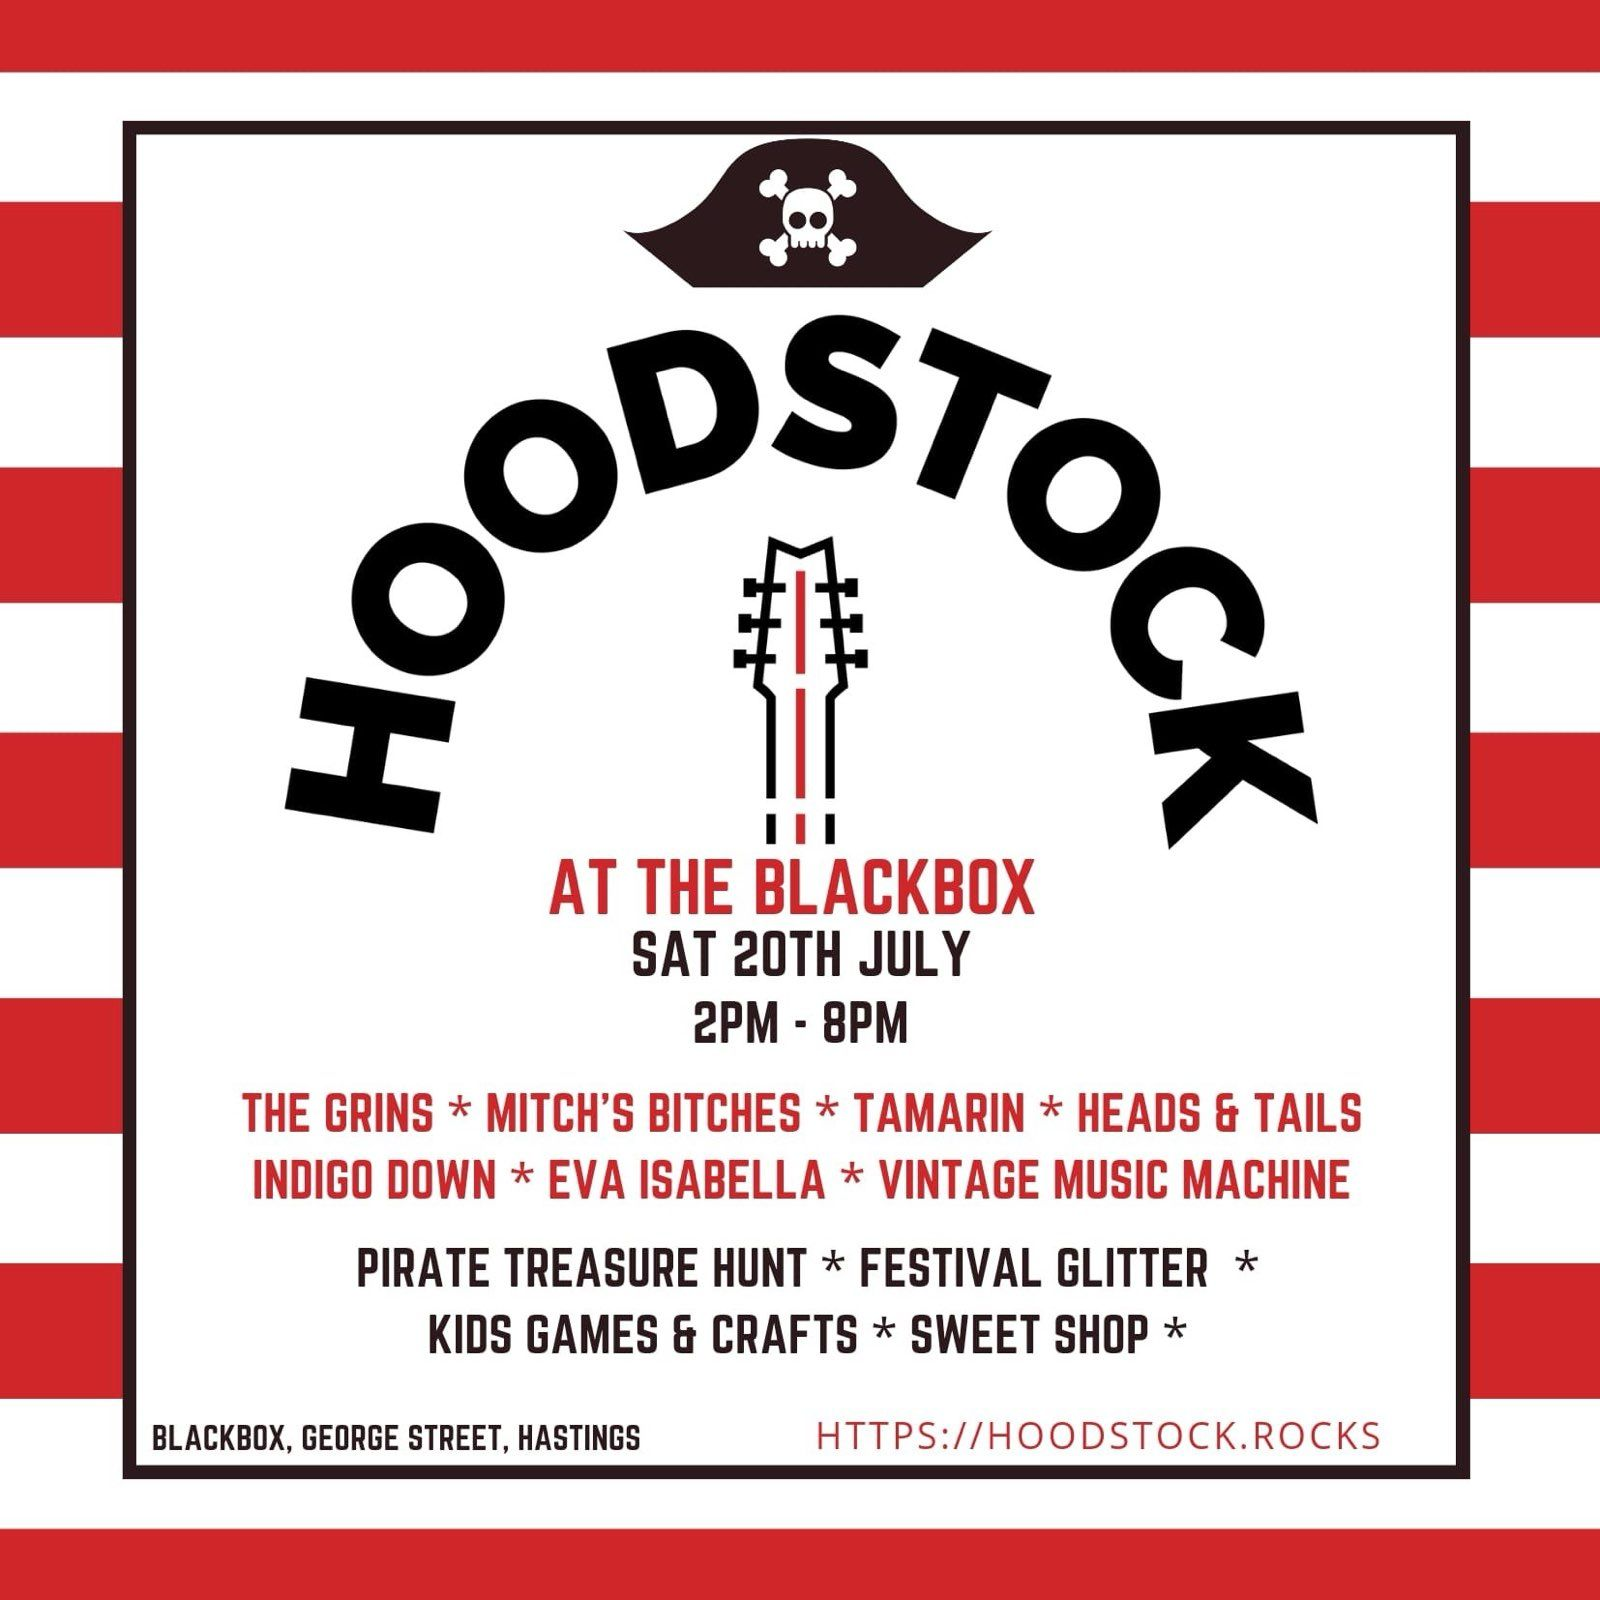
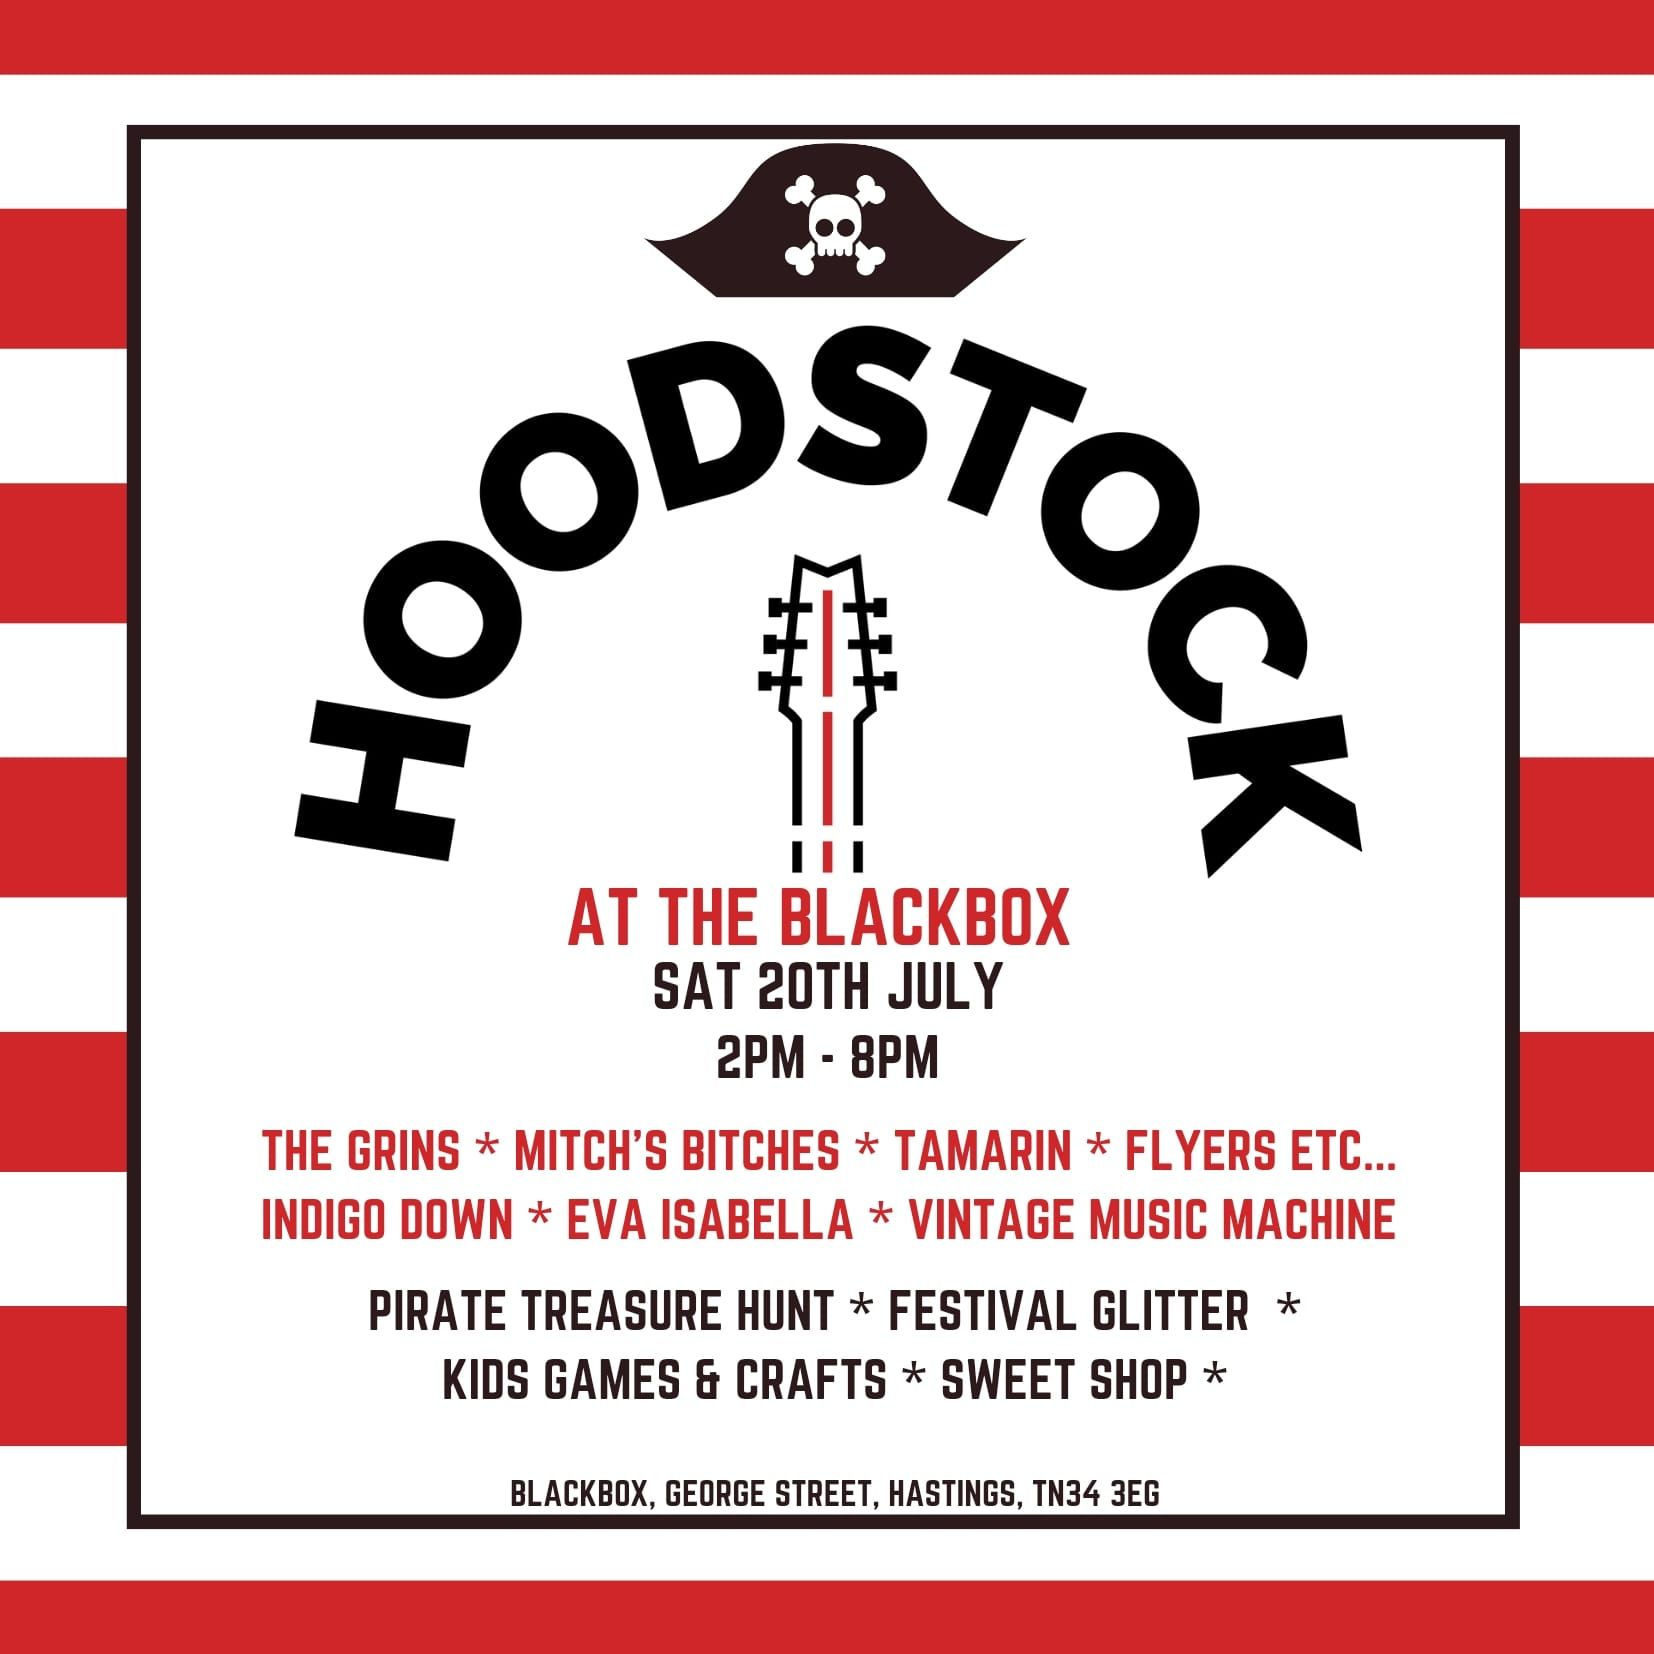
add social meta tags, update flyer

Changed region(s): [[0.1562, 0.6562, 0.875, 0.7188], [0.0938, 0.875, 0.875, 0.9375]]

diff --git a/_site/bands/index.html b/_site/bands/index.html
@@ -12,6 +12,21 @@
 	<link rel="apple-touch-icon" sizes="180x180" href="/public/images/favicon/apple-touch-icon.png">
 	<link rel="icon" type="image/png" sizes="32x32" href="/public/images/favicon/favicon-32x32.png">
 	<link rel="icon" type="image/png" sizes="16x16" href="/public/images/favicon/favicon-16x16.png">
+
+	<!-- Twitter meta tags -->
+	<meta name="twitter:card" content="summary_large_image">
+	<meta name="twitter:title" content="HOODSTOCK 2024">
+	<meta name="twitter:description"
+		content="HOODSTOCK at the BlackBox Hastings, July 20th 2024">
+	<meta name="twitter:image" content="https://hoodstock.rocks/public/images/2024flyer.jpeg">
+
+	<!-- Facebook meta tags -->
+	<meta property="og:url" content="https://hoodstock.rocks/">
+	<meta property="og:type" content="website">
+	<meta property="og:title" content="HOODSTOCK 2024">
+	<meta property="og:description"
+		content="HOODSTOCK at the BlackBox Hastings, July 20th 2024">
+	<meta property="og:image" content="https://hoodstock.rocks/public/images/2024flyer.jpeg">
 </head>
 
 <body>

diff --git a/_site/food/index.html b/_site/food/index.html
@@ -12,6 +12,21 @@
 	<link rel="apple-touch-icon" sizes="180x180" href="/public/images/favicon/apple-touch-icon.png">
 	<link rel="icon" type="image/png" sizes="32x32" href="/public/images/favicon/favicon-32x32.png">
 	<link rel="icon" type="image/png" sizes="16x16" href="/public/images/favicon/favicon-16x16.png">
+
+	<!-- Twitter meta tags -->
+	<meta name="twitter:card" content="summary_large_image">
+	<meta name="twitter:title" content="HOODSTOCK 2024">
+	<meta name="twitter:description"
+		content="HOODSTOCK at the BlackBox Hastings, July 20th 2024">
+	<meta name="twitter:image" content="https://hoodstock.rocks/public/images/2024flyer.jpeg">
+
+	<!-- Facebook meta tags -->
+	<meta property="og:url" content="https://hoodstock.rocks/">
+	<meta property="og:type" content="website">
+	<meta property="og:title" content="HOODSTOCK 2024">
+	<meta property="og:description"
+		content="HOODSTOCK at the BlackBox Hastings, July 20th 2024">
+	<meta property="og:image" content="https://hoodstock.rocks/public/images/2024flyer.jpeg">
 </head>
 
 <body>

diff --git a/_site/index.html b/_site/index.html
@@ -12,6 +12,21 @@
 	<link rel="apple-touch-icon" sizes="180x180" href="/public/images/favicon/apple-touch-icon.png">
 	<link rel="icon" type="image/png" sizes="32x32" href="/public/images/favicon/favicon-32x32.png">
 	<link rel="icon" type="image/png" sizes="16x16" href="/public/images/favicon/favicon-16x16.png">
+
+	<!-- Twitter meta tags -->
+	<meta name="twitter:card" content="summary_large_image">
+	<meta name="twitter:title" content="HOODSTOCK 2024">
+	<meta name="twitter:description"
+		content="HOODSTOCK at the BlackBox Hastings, July 20th 2024">
+	<meta name="twitter:image" content="https://hoodstock.rocks/public/images/2024flyer.jpeg">
+
+	<!-- Facebook meta tags -->
+	<meta property="og:url" content="https://hoodstock.rocks/">
+	<meta property="og:type" content="website">
+	<meta property="og:title" content="HOODSTOCK 2024">
+	<meta property="og:description"
+		content="HOODSTOCK at the BlackBox Hastings, July 20th 2024">
+	<meta property="og:image" content="https://hoodstock.rocks/public/images/2024flyer.jpeg">
 </head>
 
 <body>

diff --git a/_site/info/index.html b/_site/info/index.html
@@ -12,6 +12,21 @@
 	<link rel="apple-touch-icon" sizes="180x180" href="/public/images/favicon/apple-touch-icon.png">
 	<link rel="icon" type="image/png" sizes="32x32" href="/public/images/favicon/favicon-32x32.png">
 	<link rel="icon" type="image/png" sizes="16x16" href="/public/images/favicon/favicon-16x16.png">
+
+	<!-- Twitter meta tags -->
+	<meta name="twitter:card" content="summary_large_image">
+	<meta name="twitter:title" content="HOODSTOCK 2024">
+	<meta name="twitter:description"
+		content="HOODSTOCK at the BlackBox Hastings, July 20th 2024">
+	<meta name="twitter:image" content="https://hoodstock.rocks/public/images/2024flyer.jpeg">
+
+	<!-- Facebook meta tags -->
+	<meta property="og:url" content="https://hoodstock.rocks/">
+	<meta property="og:type" content="website">
+	<meta property="og:title" content="HOODSTOCK 2024">
+	<meta property="og:description"
+		content="HOODSTOCK at the BlackBox Hastings, July 20th 2024">
+	<meta property="og:image" content="https://hoodstock.rocks/public/images/2024flyer.jpeg">
 </head>
 
 <body>

diff --git a/_site/kids/index.html b/_site/kids/index.html
@@ -12,6 +12,21 @@
 	<link rel="apple-touch-icon" sizes="180x180" href="/public/images/favicon/apple-touch-icon.png">
 	<link rel="icon" type="image/png" sizes="32x32" href="/public/images/favicon/favicon-32x32.png">
 	<link rel="icon" type="image/png" sizes="16x16" href="/public/images/favicon/favicon-16x16.png">
+
+	<!-- Twitter meta tags -->
+	<meta name="twitter:card" content="summary_large_image">
+	<meta name="twitter:title" content="HOODSTOCK 2024">
+	<meta name="twitter:description"
+		content="HOODSTOCK at the BlackBox Hastings, July 20th 2024">
+	<meta name="twitter:image" content="https://hoodstock.rocks/public/images/2024flyer.jpeg">
+
+	<!-- Facebook meta tags -->
+	<meta property="og:url" content="https://hoodstock.rocks/">
+	<meta property="og:type" content="website">
+	<meta property="og:title" content="HOODSTOCK 2024">
+	<meta property="og:description"
+		content="HOODSTOCK at the BlackBox Hastings, July 20th 2024">
+	<meta property="og:image" content="https://hoodstock.rocks/public/images/2024flyer.jpeg">
 </head>
 
 <body>
